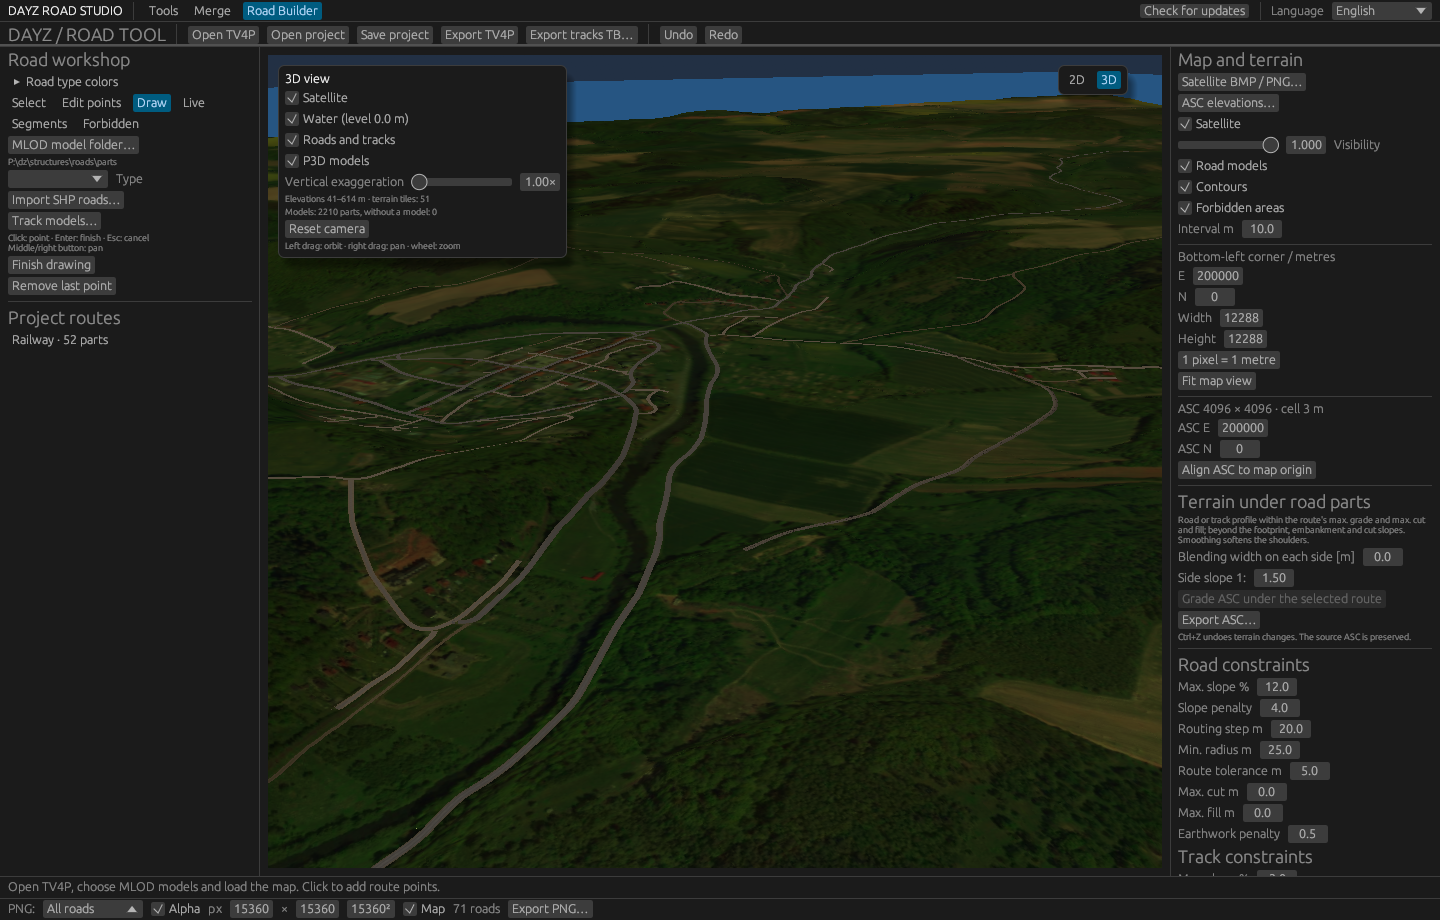
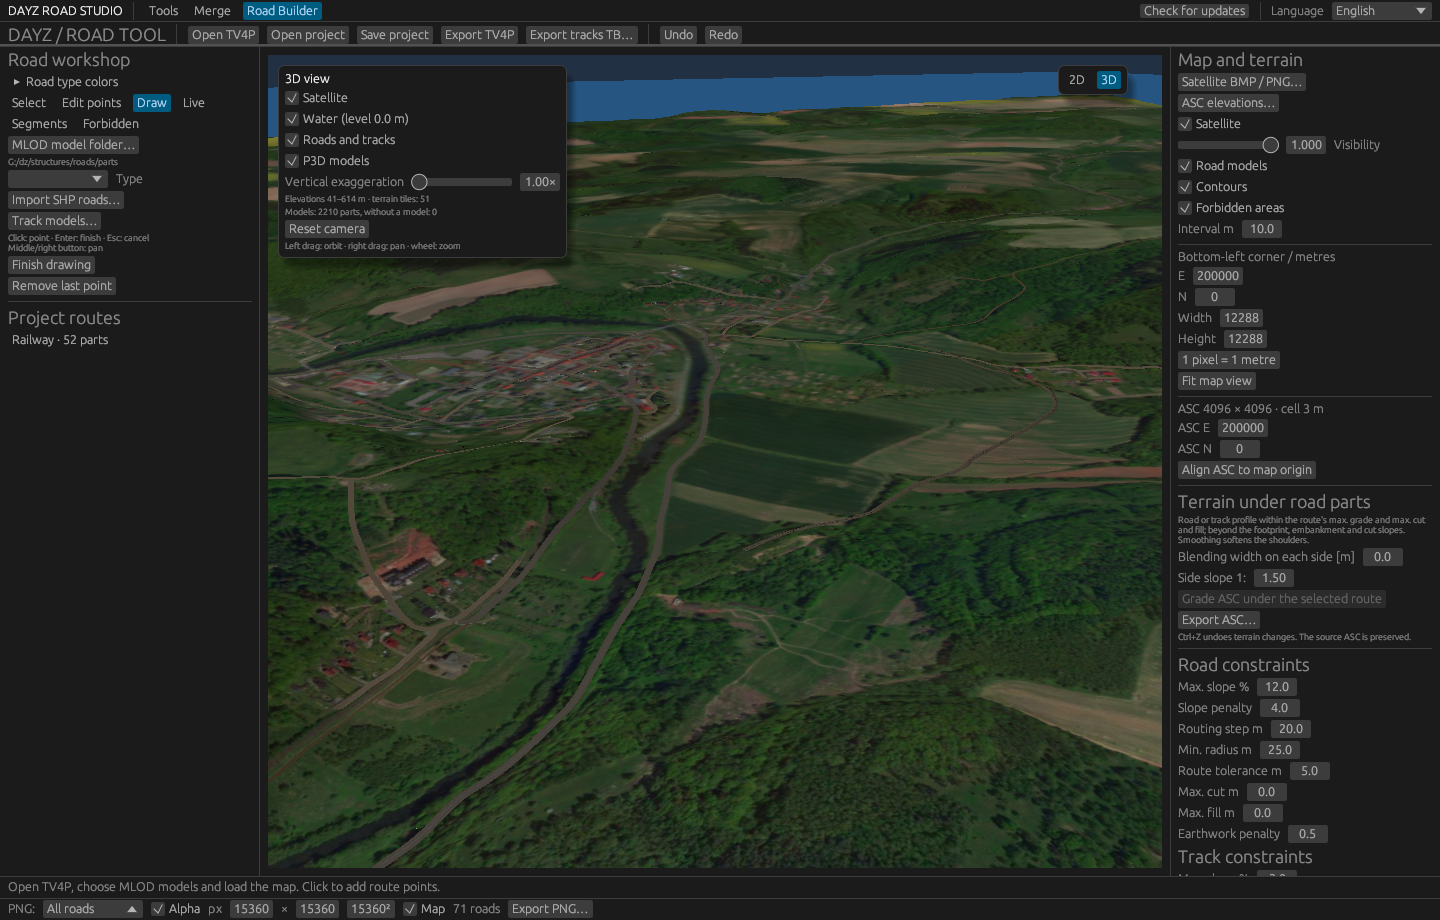
fix: show true satellite colours in the 3D view and release 2.5.2
Terrain vertices carry the elevation tint, and the shader multiplied the
satellite texture by it, darkening the image and turning it green. Only
models now multiply their texture by the vertex colour.

Retake the 3D README screenshots and let screenshot builds read models
from another root when the P: work drive is not mounted.

diff --git a/crates/road-builder/src/app.rs b/crates/road-builder/src/app.rs
@@ -2752,6 +2752,12 @@ impl App {
         if let Some(dir) = var("DAYZ_SCREENSHOT_SAT") {
             self.raster = Raster::open(std::path::Path::new(&dir)).ok();
         }
+        // DAYZ_SCREENSHOT_ROOT replaces the P: work drive when it is not mounted.
+        let root = var("DAYZ_SCREENSHOT_ROOT");
+        if let Some(root) = &root {
+            self.doc.models = std::path::Path::new(root).join("dz/structures/roads/parts");
+            self.lib = Library::new(self.doc.models.clone());
+        }
         if let Some(path) = var("DAYZ_SCREENSHOT_TV4P") {
             let mut lib = Library::new(self.doc.models.clone());
             self.base = tv4p::load(std::path::Path::new(&path), &mut lib).ok();
@@ -2765,7 +2771,11 @@ impl App {
             && t.len() >= 4
             && let Some(terrain) = &self.terrain
         {
-            let folder = std::path::Path::new(dayz_road_tool::rails::DEFAULT_FOLDER);
+            let folder = root.as_ref().map_or_else(
+                || PathBuf::from(dayz_road_tool::rails::DEFAULT_FOLDER),
+                |r| std::path::Path::new(r).join("dz/structures/rail/Tracks"),
+            );
+            let folder = folder.as_path();
             let mut lib = Library::new(folder.into());
             if let Ok((parts, _)) = dayz_road_tool::rails::catalog(folder, &mut lib) {
                 self.catalog.extend(parts);

diff --git a/crates/road-builder/src/view3d.rs b/crates/road-builder/src/view3d.rs
@@ -1227,7 +1227,8 @@ void main() {
     if (u_textured == 1 && inside) {
         vec4 t = texture(u_tex, v_uv);
         if (u_clamp == 0 && t.a < 0.35) discard;
-        base = vec4(t.rgb * v_color.rgb, v_color.a);
+        // Terrain vertices carry the elevation tint, which must not colour the satellite.
+        base = vec4(u_clamp == 1 ? t.rgb : t.rgb * v_color.rgb, v_color.a);
     }
     float light = 1.0;
     if (u_lit == 1) {

diff --git a/README.md b/README.md
@@ -1,4 +1,4 @@
-# DayZ Road Studio 2.5.1
+# DayZ Road Studio 2.5.2
 
 A Windows application for merging and designing roads in Terrain Builder `.tv4p` projects. DayZ Road Studio combines **Merge** and **Road Builder** with geometry previews, terrain tools and PNG export. Written in Rust.
 
@@ -26,7 +26,7 @@ Special thanks to **WoozyMasta** for [tv4p-road-tool](https://github.com/WoozyMa
 
 ## Version
 
-Current application version: **2.5.1** (`2.5.1` in Cargo). The application is named **DayZ Road Studio**. The executable remains `tv4p_merge_roads.exe` for compatibility with existing workflows. The version is shown in the window title and can be printed with `tv4p_merge_roads.exe --version`.
+Current application version: **2.5.2** (`2.5.2` in Cargo). The application is named **DayZ Road Studio**. The executable remains `tv4p_merge_roads.exe` for compatibility with existing workflows. The version is shown in the window title and can be printed with `tv4p_merge_roads.exe --version`.
 
 ## Changes in 2.5
 

diff --git a/CHANGELOG.md b/CHANGELOG.md
@@ -1,5 +1,10 @@
 # Changelog
 
+## 2.5.2 — 2026-11-08
+
+### Fixed
+- The 3D view no longer darkens and tints the satellite image with the elevation colours.
+
 ## 2.5.1 — 2026-11-07
 
 ### Added
